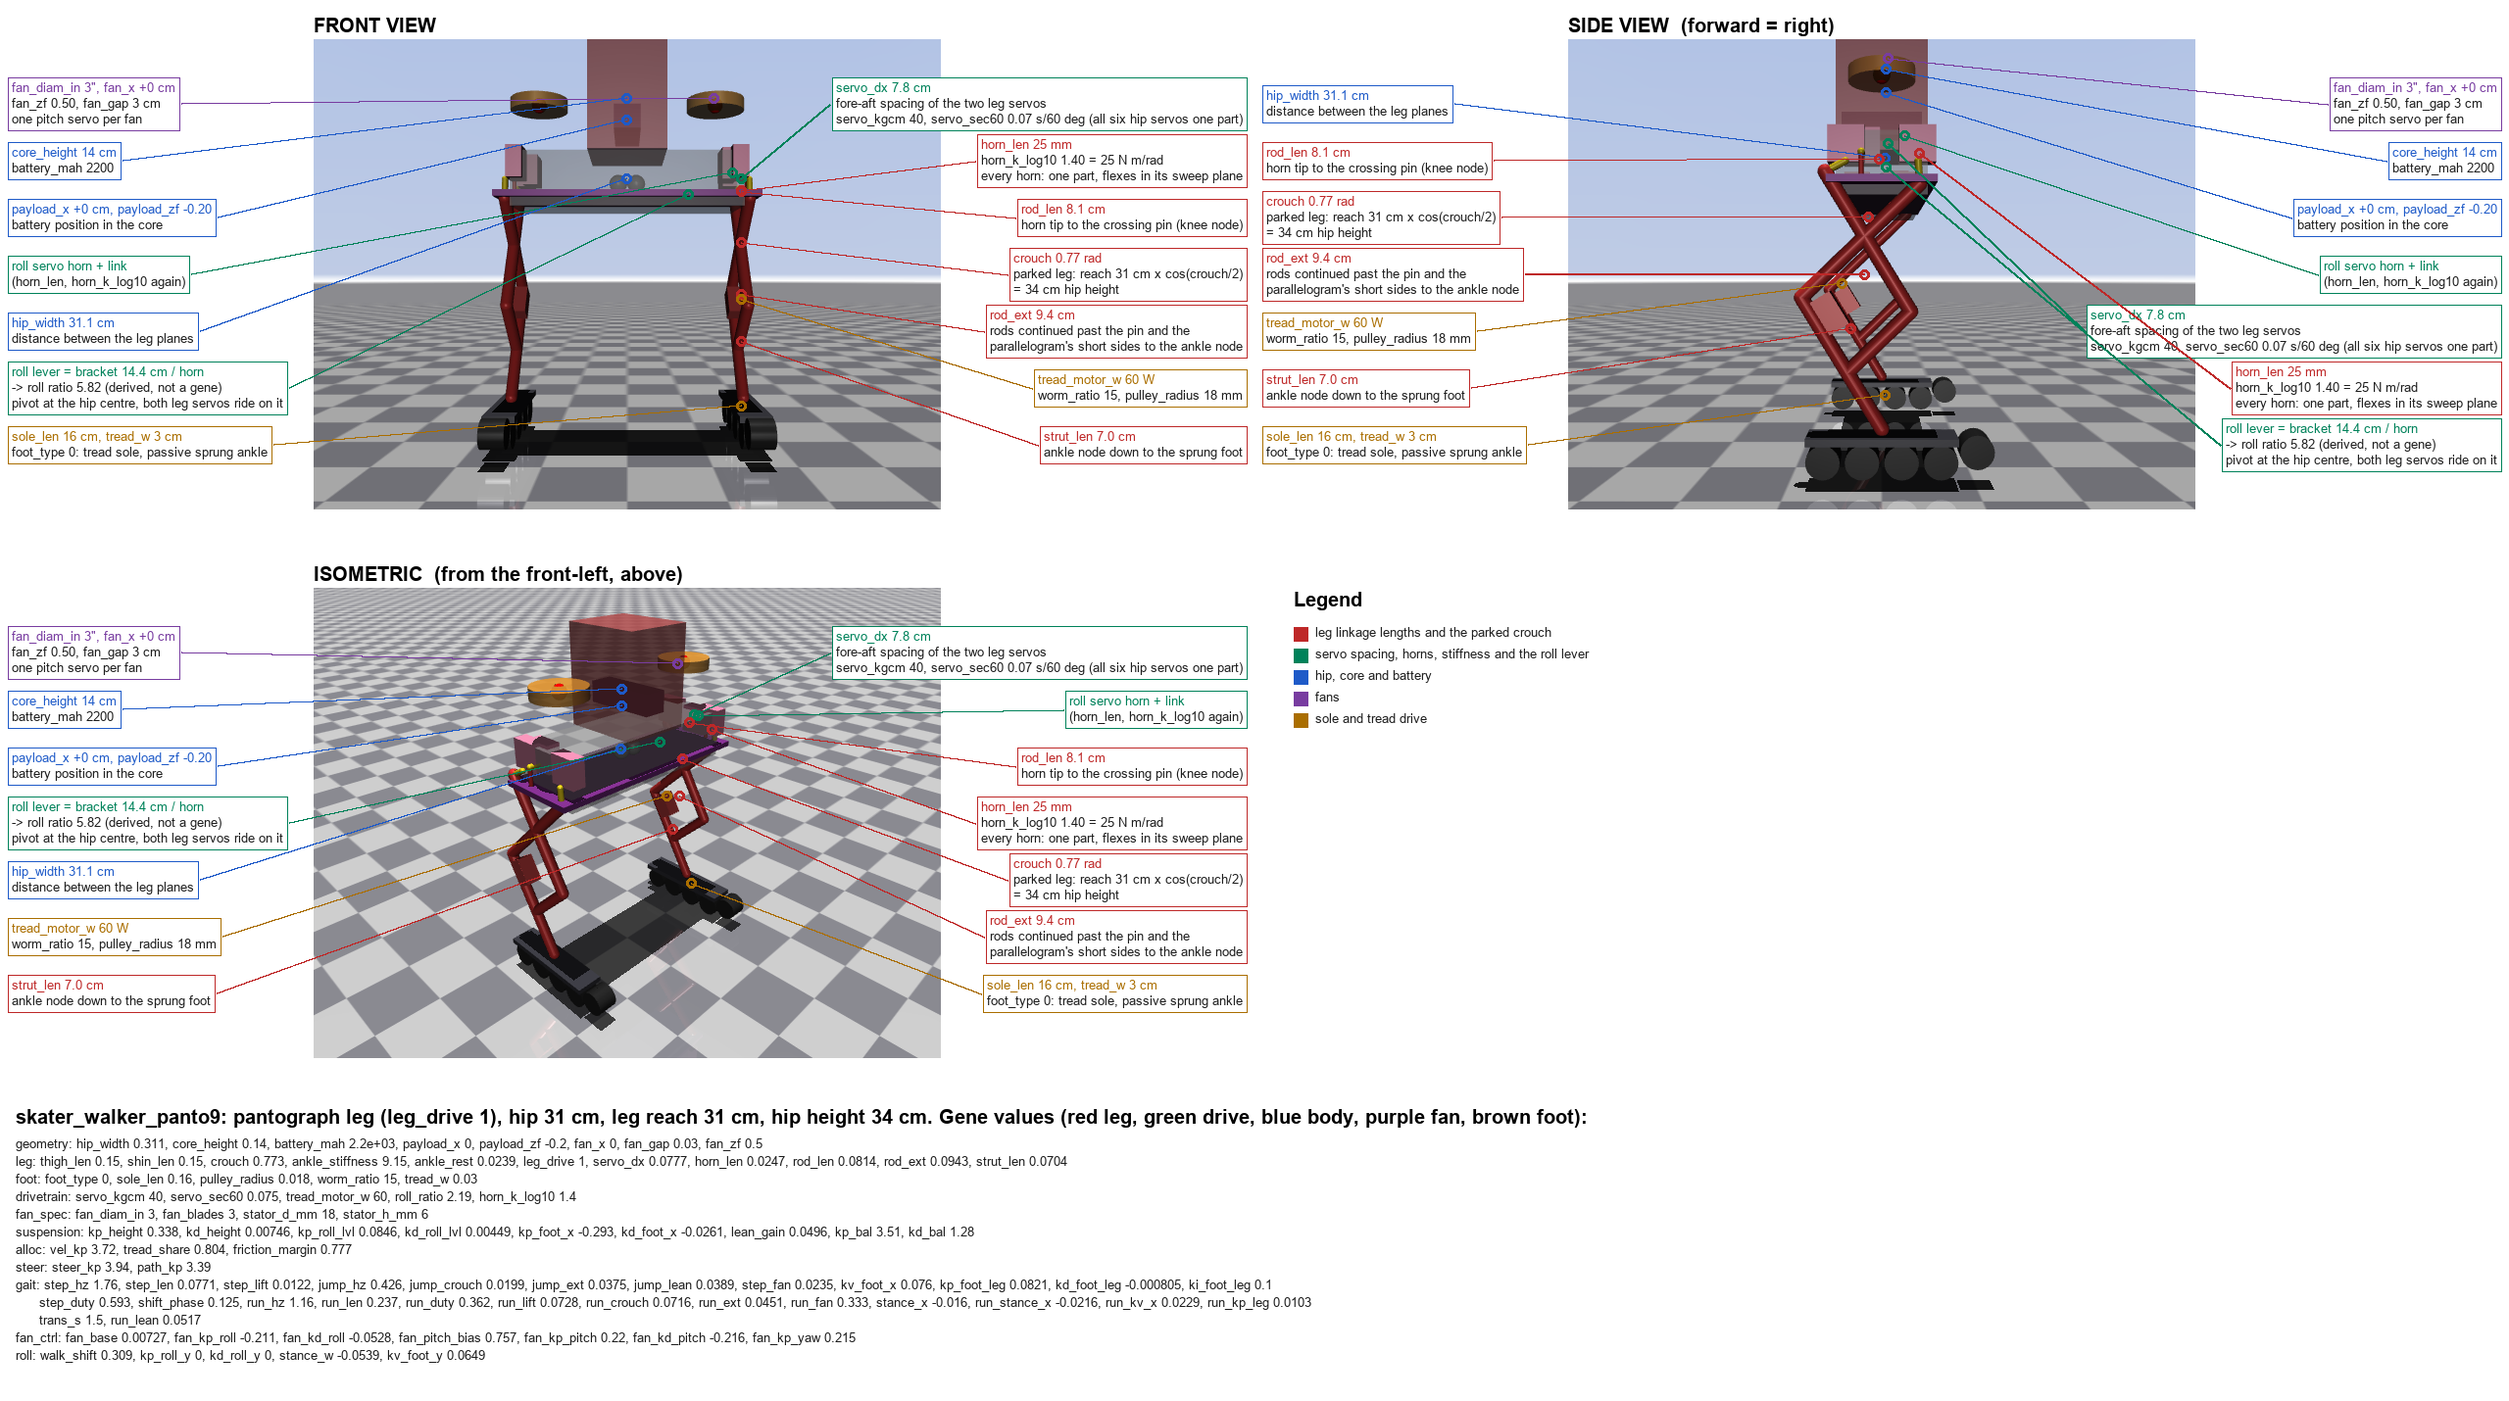
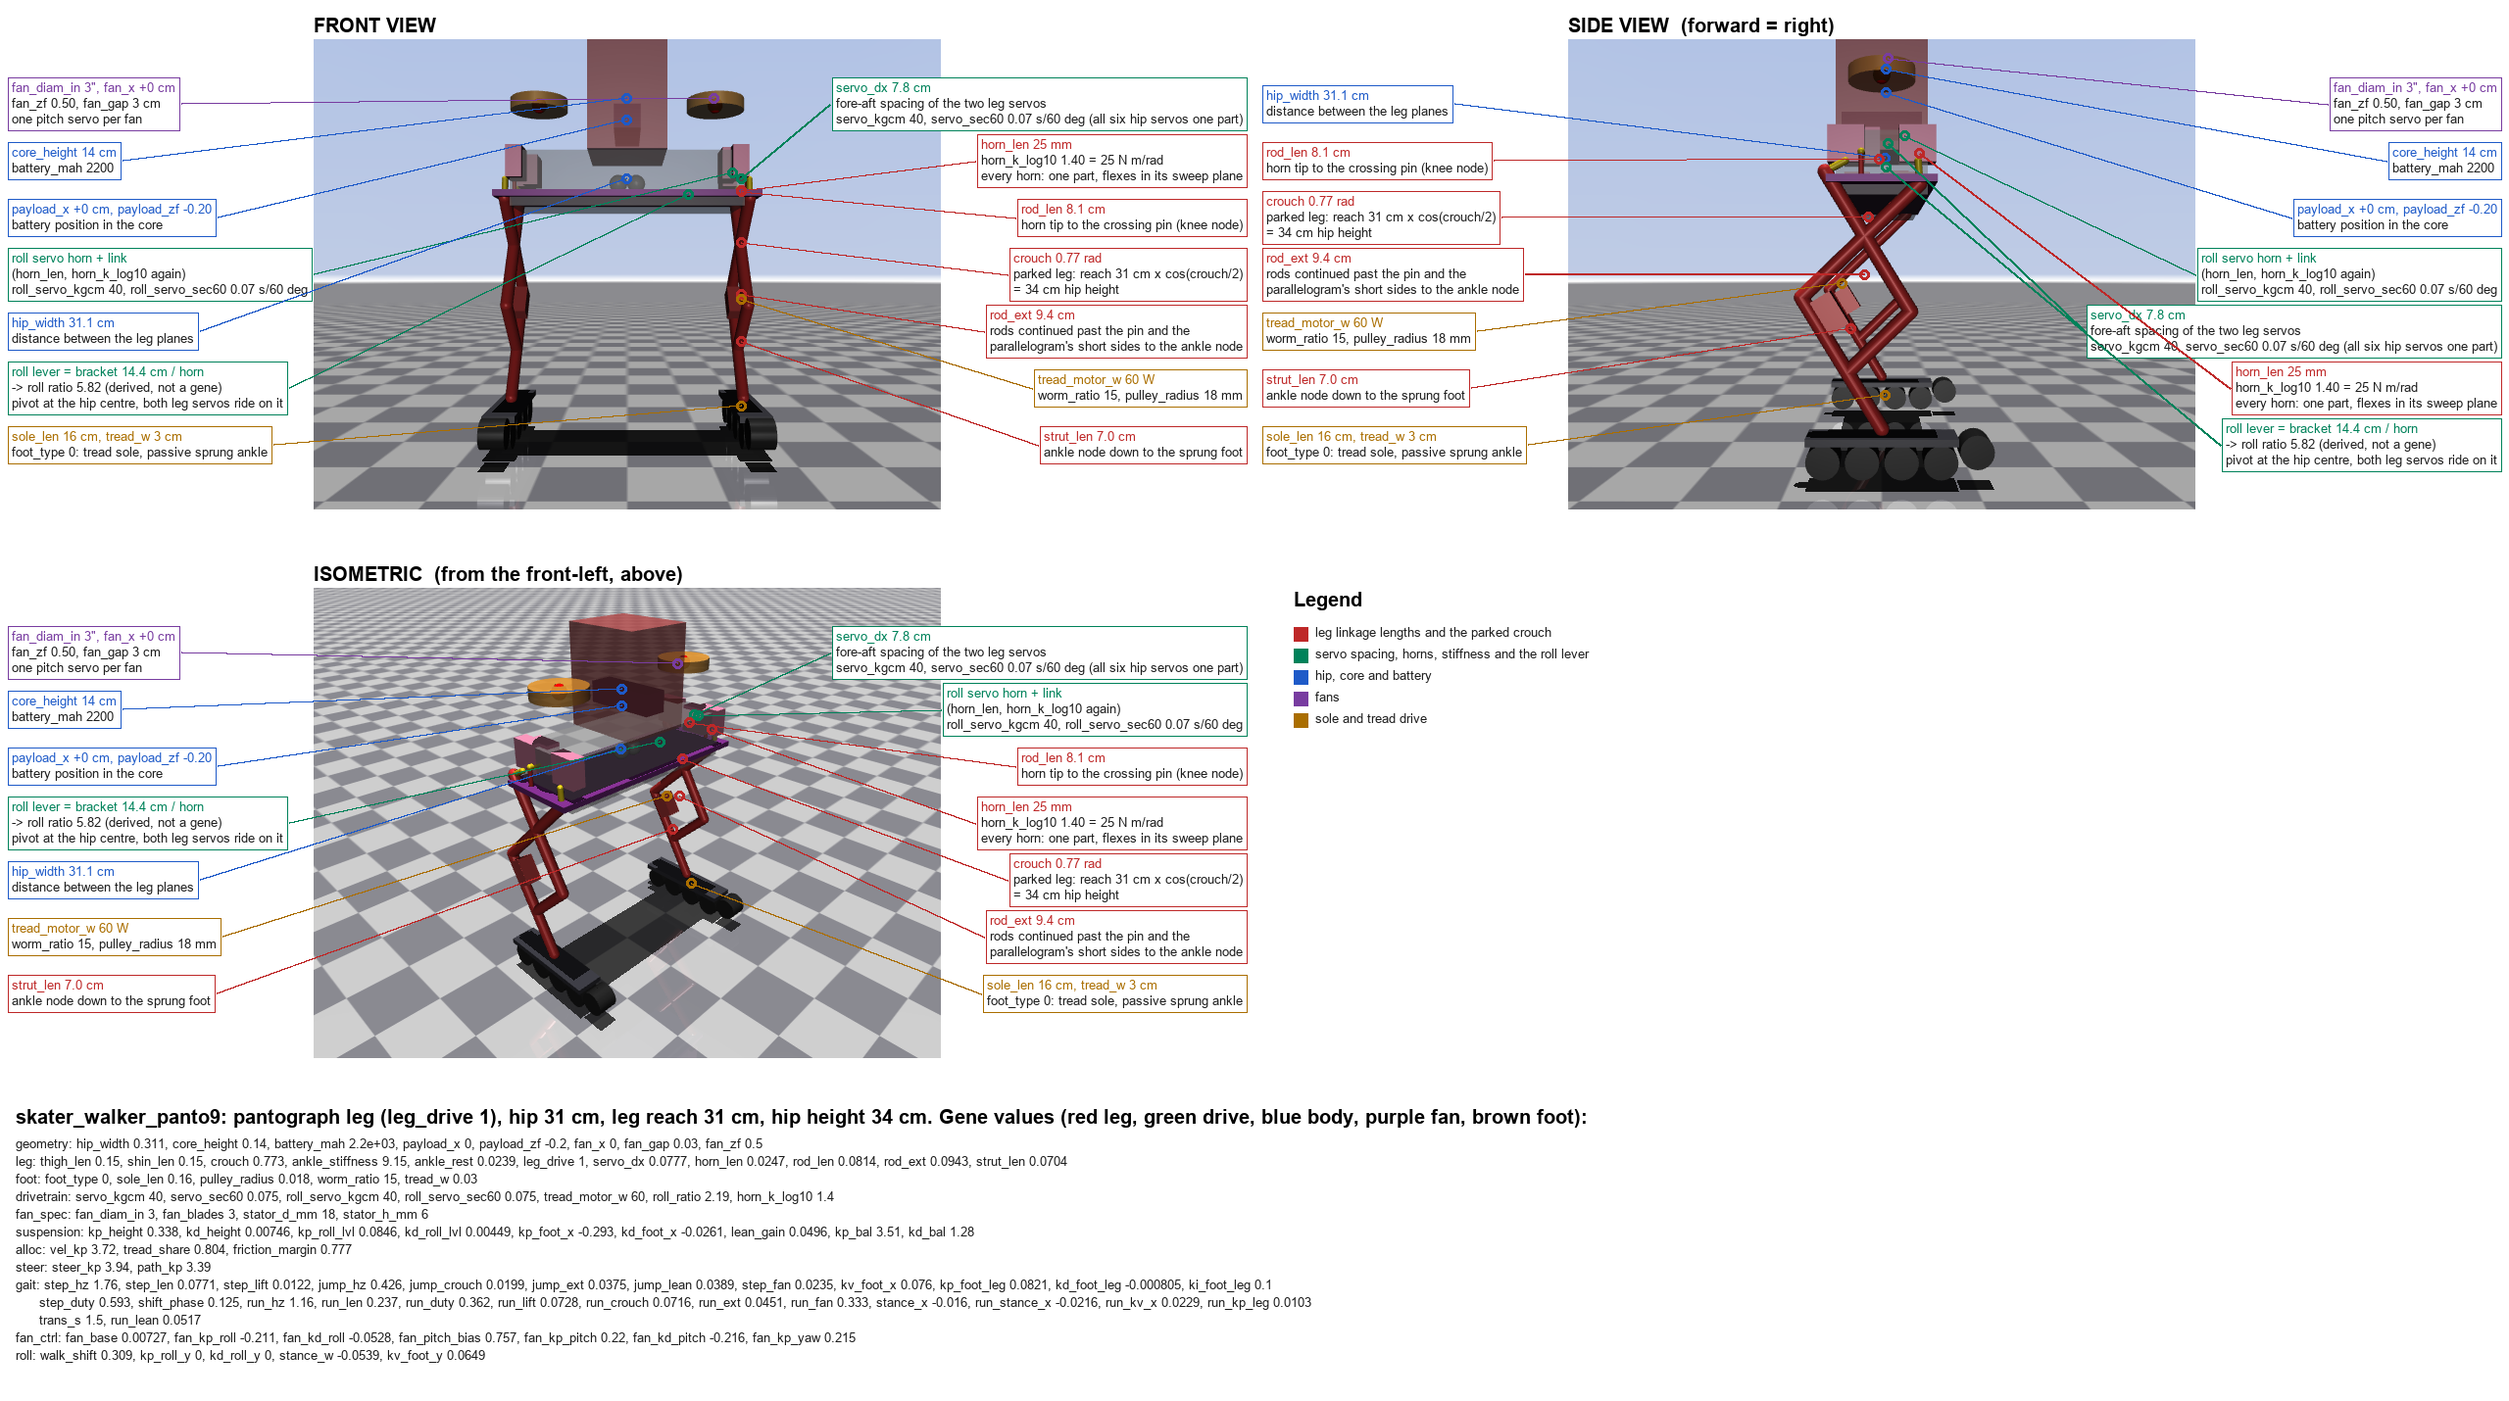
Phase 0: the hip roll servo gets its own spec (roll_servo_kgcm, roll_servo_sec60; archetypes keep their leg servo's values, roll_servo_sat_frac reported). Round 9 re-scored: a stouter roll servo does not take it off stall because the two roll servos squeeze the planted feet together against the floo

diff --git a/evol_mech/skater/mjcf.py b/evol_mech/skater/mjcf.py
@@ -60,7 +60,7 @@ import math
 import mujoco
 import numpy as np
 
-from ..body.hardware import (fan_from_params, servo_from_params, tread_drive_from_params,
+from ..body.hardware import (fan_from_params, servo_from_params, roll_servo_from_params, tread_drive_from_params,
                              FAN_PITCH_SERVO_KP, FAN_PITCH_SERVO_TORQUE)
 from ..body.structure import (hip_half_y, fan_center_y, fan_z_core, payload_z as _payload_z,
                               HIP_HALF_X, HIP_HALF_Z)
@@ -312,14 +312,14 @@ def _fan(side: str, sign: float, p: dict[str, float], mass: float, diam: float) 
 
 
 def _leg_actuators(side: str, p: dict[str, float]) -> str:
-    servo = servo_from_params(p)
+    servo, roll_servo = servo_from_params(p), roll_servo_from_params(p)
     tread = tread_drive_from_params(p)
-    # each servo's position stiffness in series with its flexing horn; the roll servo
-    # works through the bracket lever (structure.roll_ratio), reflected onto the roll hinge
+    # each servo's position stiffness in series with its flexing horn; the roll servo (its own
+    # spec) works through the bracket lever (structure.roll_ratio), reflected onto the roll hinge
     ratio = roll_ratio(p)
     kp_leg = series_kp(servo.kp, horn_stiffness(p))
-    kp_roll = kp_leg * ratio ** 2
-    gains = {"hip_roll": (kp_roll, servo.torque_nm * ratio), "hip_pitch": (kp_leg, servo.torque_nm),
+    kp_roll = series_kp(roll_servo.kp, horn_stiffness(p)) * ratio ** 2
+    gains = {"hip_roll": (kp_roll, roll_servo.torque_nm * ratio), "hip_pitch": (kp_leg, servo.torque_nm),
              "knee": (kp_leg, servo.torque_nm)}
     rows = [f'<position name="{j}_{side}" joint="{j}_{side}" kp="{gains[j][0]:.2f}" kv="{gains[j][0] * SERVO_KV_FRAC:.3f}" '
             f'forcerange="{-gains[j][1]:.3f} {gains[j][1]:.3f}"/>' for j in LEG_JOINTS]

diff --git a/evol_mech/skater/rollout.py b/evol_mech/skater/rollout.py
@@ -275,6 +275,11 @@ def rollout(genome: np.ndarray, task: dict, seed: int = 0, *,
     servo_prev: list[np.ndarray] = []                 # last two servo command vectors (chatter metric)
     servo_acc_sq, servo_sat = 0.0, 0
     servo_step = ctrl.servo.max_rad_s * CONTROL_DT
+    # the scored saturation (servo_sat_frac, in the grace) has always measured every channel against
+    # the leg servo's slew, which the roll channel (slewed at the roll servo's speed over the lever)
+    # never reaches; the roll servo's own saturation is reported separately, not yet scored
+    roll_step = ctrl.roll_servo.max_rad_s / ctrl.roll_ratio * CONTROL_DT
+    roll_sat = 0
     fan_energy = motor_energy = 0.0
     time_upright = 0.0
     fell = unstable = False
@@ -320,6 +325,7 @@ def rollout(genome: np.ndarray, task: dict, seed: int = 0, *,
         if len(servo_prev) == 2:
             acc_hist[k] = float(np.mean((servo_cmd - 2 * servo_prev[-1] + servo_prev[-2]) ** 2))
             sat_hist[k] = int(np.any(np.abs(servo_cmd[:6] - servo_prev[-1][:6]) >= 0.98 * servo_step))
+            roll_sat += int(np.any(np.abs(servo_cmd[:2] - servo_prev[-1][:2]) >= 0.98 * roll_step))
             servo_acc_sq += acc_hist[k]
             servo_sat += int(sat_hist[k])
         feet_hist[k] = float(np.mean([data.xpos[b][0] for b in foot_bodies]))
@@ -492,6 +498,7 @@ def rollout(genome: np.ndarray, task: dict, seed: int = 0, *,
         "leg_mass_penalty": leg_pen,
         "total_mass": total_mass,
         **ctrl.sensors.summary(),
+        "roll_servo_sat_frac": roll_sat / max(1, n - 2),
         "sim_steps": steps,
         "wall_s": wall,
         "steps_per_s": steps / wall if wall > 0 else 0.0,

diff --git a/evol_mech/skater/controller.py b/evol_mech/skater/controller.py
@@ -66,7 +66,7 @@ import math
 import mujoco
 import numpy as np
 
-from ..body.hardware import tread_drive_from_params, servo_from_params, fan_from_params
+from ..body.hardware import tread_drive_from_params, servo_from_params, roll_servo_from_params, fan_from_params
 from ..sim.controller import quat_to_roll_pitch
 from .mjcf import ACTUATOR_NAMES, FAN_PITCH_RANGE
 from .sensors import FootSensors
@@ -122,7 +122,7 @@ class SkaterController:
         self.hip_id = hip_id
         self.mass = float(model.body_subtreemass[hip_id])
         self.tread = tread_drive_from_params(p)
-        self.servo = servo_from_params(p)
+        self.servo, self.roll_servo = servo_from_params(p), roll_servo_from_params(p)
         self.t_max = fan_from_params(p).max_thrust_n
         self.roller_q = {s: model.jnt_qposadr[mujoco.mj_name2id(model, mujoco.mjtObj.mjOBJ_JOINT, f"roller_{s}0")]
                          for s in ("l", "r")}
@@ -378,7 +378,7 @@ class SkaterController:
             self.model.qpos_spring[self.ankle_q[s]] = -shin - self.p["ankle_rest"]
 
     def _slew(self, name: str, target: float) -> float:
-        step = self.servo.max_rad_s * CONTROL_DT / (self.roll_ratio if name.startswith("hip_roll") else 1.0)
+        step = (self.roll_servo.max_rad_s / self.roll_ratio if name.startswith("hip_roll") else self.servo.max_rad_s) * CONTROL_DT
         cur = self.servo_cmd[name]
         cur += max(-step, min(step, target - cur))
         self.servo_cmd[name] = cur

diff --git a/evol_mech/skater/structure.py b/evol_mech/skater/structure.py
@@ -53,7 +53,7 @@ from __future__ import annotations
 from dataclasses import dataclass
 import math
 
-from ..body.hardware import (fan_from_params, servo_from_params, tread_drive_from_params,
+from ..body.hardware import (fan_from_params, servo_from_params, roll_servo_from_params, tread_drive_from_params,
                              TREAD_RUBBER_KG_PER_M2, ROLLER_KG_PER_M, SOLE_PLATE_KG_PER_M2)
 from ..body.structure import (HIP_HALF_X, HIP_HALF_Z, SHELL_KG_PER_M2, HIP_HARDWARE_KG,
                               FAN_ARM_KG_PER_M, ELECTRONICS_KG, BATTERY_KG_BASE, BATTERY_KG_PER_MAH,
@@ -555,7 +555,7 @@ def structure_from_params(p: dict[str, float]) -> SkaterStructure:
     lay = foot_layout(p)
 
     hip = (SHELL_KG_PER_M2 * _box_area(HIP_HALF_X, hip_half_y(p), HIP_HALF_Z)
-           + HIP_HARDWARE_KG + 2 * SERVOS_PER_LEG * servo.mass_kg)
+           + HIP_HARDWARE_KG + 2 * (SERVOS_PER_LEG - 1) * servo.mass_kg + 2 * roll_servo_from_params(p).mass_kg)
     arm = math.sqrt(p["fan_x"] ** 2 + fan_center_y(p) ** 2 + fan_z_core(p) ** 2)
     cx, cy = core_half_x(p), core_half_y(p)
     core = SHELL_KG_PER_M2 * _box_area(cx, cy, p["core_height"] / 2) + 2 * FAN_ARM_KG_PER_M * arm

diff --git a/evol_mech/body/hardware.py b/evol_mech/body/hardware.py
@@ -146,9 +146,18 @@ class ServoSpec:
     kp: float                    # N·m/rad of the internal position loop
 
 
-def servo_from_params(p: dict[str, float]) -> ServoSpec:
-    kgcm = p["servo_kgcm"]
+def servo_spec(kgcm: float, sec60: float = SERVO_SEC_PER_60DEG) -> ServoSpec:
     t = kgcm * 0.0981
-    sec60 = p.get("servo_sec60", SERVO_SEC_PER_60DEG)
     mass = SERVO_KG_BASE + SERVO_KG_PER_KGCM * kgcm + SERVO_KG_PER_SPEED * max(0.0, SERVO_SEC_PER_60DEG / sec60 - 1.0)
     return ServoSpec(kgcm, t, mass, math.radians(60) / sec60, t / SERVO_DEADBAND_RAD)
+
+
+def servo_from_params(p: dict[str, float]) -> ServoSpec:
+    """The two leg servos per leg (thigh / front horn, shin / rear horn)."""
+    return servo_spec(p["servo_kgcm"], p.get("servo_sec60", SERVO_SEC_PER_60DEG))
+
+
+def roll_servo_from_params(p: dict[str, float]) -> ServoSpec:
+    """The hip roll servo, one per leg: its own spec, since on a wide hip it carries the whole
+    leg through the bracket lever. Follows the leg servo when the genes are absent."""
+    return servo_spec(p.get("roll_servo_kgcm", p["servo_kgcm"]), p.get("roll_servo_sec60", p.get("servo_sec60", SERVO_SEC_PER_60DEG)))

diff --git a/tools/skater_drawing.py b/tools/skater_drawing.py
@@ -112,7 +112,7 @@ def labels(sc: Scene, p: dict) -> list:
             (sc.mid(link_c, foot), [f"strut_len {p['strut_len'] * 100:.1f} cm", "ankle node down to the sprung foot"], LEG),
             (sc.mid(rod_f, link_c), [f"crouch {p['crouch']:.2f} rad", f"parked leg: reach {panto_reach(p) * 100:.0f} cm x cos(crouch/2)", f"= {nominal_height(p) * 100:.0f} cm hip height"], LEG),
             (bracket, [f"roll lever = bracket {roll_arm(p) * 100:.1f} cm / horn", f"-> roll ratio {roll_ratio(p):.2f} (derived, not a gene)", "pivot at the hip centre, both leg servos ride on it"], DRIVE),
-            (sc.mid(roll_horn, roll_link), ["roll servo horn + link", "(horn_len, horn_k_log10 again)"], DRIVE),
+            (sc.mid(roll_horn, roll_link), ["roll servo horn + link", "(horn_len, horn_k_log10 again)", f"roll_servo_kgcm {p['roll_servo_kgcm']:.0f}, roll_servo_sec60 {p['roll_servo_sec60']:.2f} s/60 deg"], DRIVE),
         ]
     else:
         items += [

diff --git a/evol_mech/skater/spec.py b/evol_mech/skater/spec.py
@@ -41,6 +41,8 @@ PARAMS: list[Param] = [
     # ---- drivetrain -----------------------------------------------------------
     Param("servo_kgcm",       10,   60,   25,   "drivetrain", 5),  # leg servo stall torque, catalogue steps
     Param("servo_sec60",      0.06, 0.20, 0.15, "drivetrain"),     # leg servo speed, s per 60 deg (0.15 standard, 0.06-0.08 HV coreless / brushless)
+    Param("roll_servo_kgcm",  10,   80,   25,   "drivetrain", 5),  # hip roll servo stall torque: on a wide hip it carries the leg through the bracket lever and is the stout one
+    Param("roll_servo_sec60", 0.06, 0.20, 0.15, "drivetrain"),     # hip roll servo speed
     Param("tread_motor_w",    20.0, 150.0, 60.0, "drivetrain"),  # rated electrical power
     # ---- fan hardware spec (catalogue steps) ---------------------------------
     Param("fan_diam_in",      2,    6,    3,    "fan_spec", 1),

diff --git a/tests/test_skater.py b/tests/test_skater.py
@@ -333,7 +333,7 @@ def test_hip_roll_places_the_feet():
 def test_walker_archetype_walks_and_walk_fitness_counts_the_feet():
     from evol_mech.skater.spec import encode, N_PARAMS
     from evol_mech.skater.rollout import FALL_COST
-    assert N_PARAMS == 86 and FALL_COST == {"walk": 0.3, "run": 0.1, "course": 0.1}
+    assert N_PARAMS == 88 and FALL_COST == {"walk": 0.3, "run": 0.1, "course": 0.1}
     phys = json.load(open("configs/archetypes/skater_walker_evolved6.json"))["phys"]     # levelled sole, 2.5 Hz cap
     task = {"name": "walk_flat", "terrain": "flat", "objective": "walk", "speed": 0.4, "duration": 8.0, "step_hz_max": 2.5}
     kw = dict(motor_energy_cost=0.0005)                 # as configs/skater_walk*.json price it

diff --git a/docs/skater_review.md b/docs/skater_review.md
@@ -242,6 +242,25 @@ for; a velocity integral in the controller is the alternative.
   hip), so the wide-hip walk is carried by servos at their torque limit and
   its 2.6 deg roll is not a build result until the roll servo has its own,
   stouter spec (phase 0) and the walk is re-scored with it.
+- **Roll servo spec (plan phase 0).** `roll_servo_kgcm` and
+  `roll_servo_sec60` are genes (10-80 kg cm, 0.06-0.20 s per 60 deg), used
+  for the roll actuator's torque and stiffness, the roll channel's slew and
+  the hip's mass (`hardware.roll_servo_from_params`; every archetype was
+  given its leg servo's values, so no gait changed). The scored saturation
+  keeps measuring the roll channel against the leg servo's slew as it
+  always has; the roll servo's own saturation is reported as
+  `roll_servo_sat_frac`. Re-scoring round 9 with a stouter roll servo did
+  not take it off its limit: 53 % of the time at stall with 40 kg cm, 37 %
+  with 80, the walk otherwise unchanged (fitness -0.06 to -0.09, grace
+  0.42-0.43, roll 2.6-2.7 deg). The probe says why: the roll joint sits at
+  8.4 deg while the command is 14.4 deg and the joint is never on its stop,
+  so the two roll servos are squeezing the planted feet toward each other
+  against the floor's friction. The GA's "feet 5.4 cm inboard" is a command
+  the feet never reach (the measured track is 23 cm, the commanded 15); the
+  2.6 deg roll is bought by preloading the stance through the floor with
+  two servos at stall. That is a foot-placement rule set at swing and held
+  from the measured foot in stance, which is phase 1's capture-point step,
+  not a servo size.
   Open: the lower links' fore-aft
   reach is the horn's (a 3.5 cm horn cannot move the X 6 cm at a deep
   crouch, so the buildability check rejects it), the leg mass sits at 15 %

diff --git a/docs/skater_test_plan.md b/docs/skater_test_plan.md
@@ -52,7 +52,7 @@ to use it. Nothing here needs a GA round; each item is a commit with a test.
       stiffness model), a 20 ms command latency and a 50 Hz command rate so
       the derivative gains are tuned against the servo the build will have,
       not a continuous one. Expect the round-5 limit cycle to move.
-- [ ] **A roll servo spec of its own** (`roll_servo_kgcm`,
+- [x] **A roll servo spec of its own** (`roll_servo_kgcm`,
       `roll_servo_sec60`): on the wide hip the roll servo carries the leg
       through a 5-6x lever and is the stout one; on the 10 cm hip it idled
       at 3 % of its torque.
